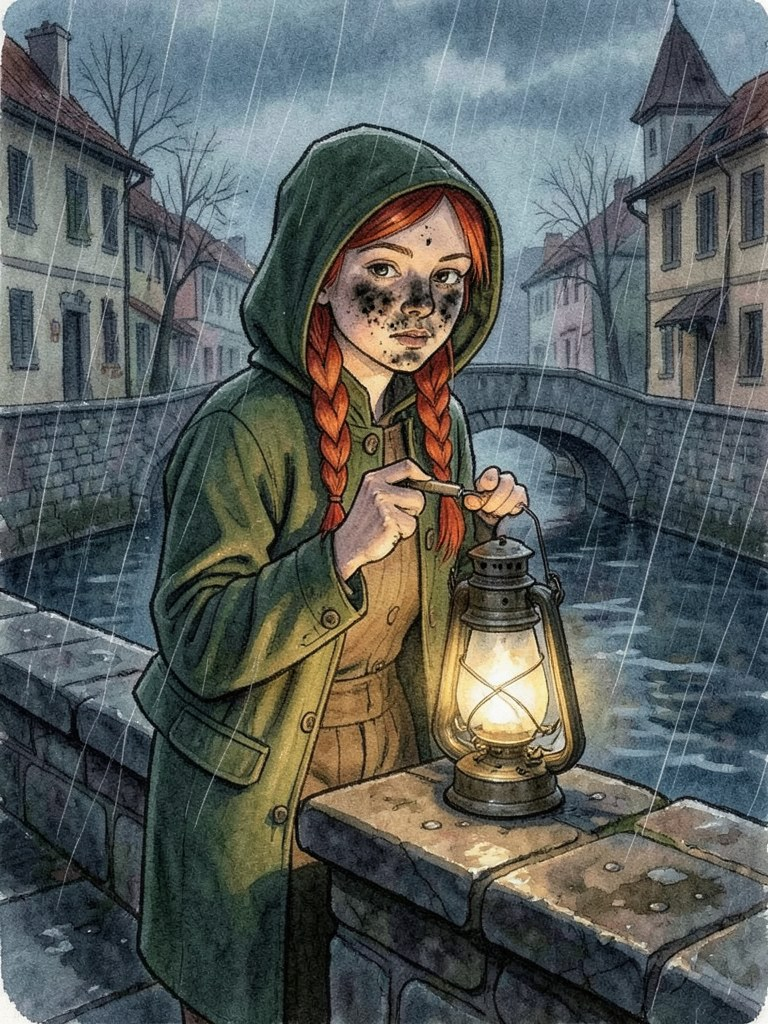
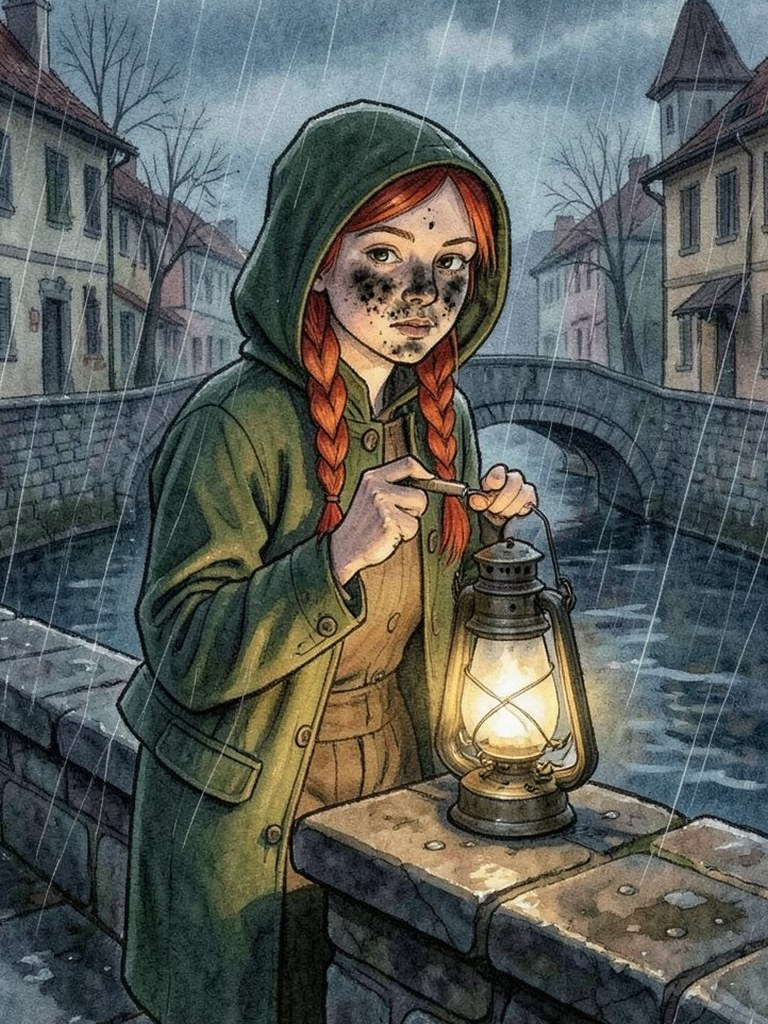
Immagini: si rifilano anche i ritratti; ponte-lanterne senza orli di carta
I ritratti di ponte-lanterne hanno lo sfondo dipinto e lo stesso orlo strappato dei luoghi
(Rosa e Tullio su tutti i lati, Rosa con una firma finta): rifila() ora vale per ogni tipo.
Su un fondo scuro pieno non trova carta e non tocca niente (i tre di prova-f0: 0%).
--rifila-esistenti ricontrolla anche le voci a 0, che per i ritratti voleva dire «mai
controllato». Rifilati dal JPEG: Bice 2,7%, Rosa 5%, Tullio 5%, Vischi 3,9%. Va fatto prima
delle situazioni, che usano i ritratti come riferimento.

diff --git a/strumenti/immagini/genera.py b/strumenti/immagini/genera.py
@@ -131,10 +131,10 @@ def esegui(cartella: Path, da_fare: list[Richiesta], man: Manifest, fp16: bool, 
             e = motore.genera(r.prompt, s, gl, ga, Path(tmp) / f"{r.id}.png", riferimenti=rif)
             with Image.open(e.percorso) as png:
                 img, rifilato = png.convert("RGB"), 0.0
-            # Solo le immagini a tutto schermo: l'orlo bianco sul nero del proiettore abbaglia.
-            # I ritratti hanno il fondo scuro pieno e stanno in un riquadro: non si toccano.
-            if r.tipo in ("luogo", "situazione"):
-                img, rifilato = rifila(img)
+            # Tutti i tipi: l'orlo bianco abbaglia sul proiettore, e i ritratti con lo sfondo dipinto
+            # (ponte-lanterne) hanno lo stesso orlo strappato. Su un fondo scuro pieno rifila() non
+            # trova carta e non tocca niente.
+            img, rifilato = rifila(img)
             salva_jpeg(img, dest / r.file, qualita=QUALITA_JPEG, dimensioni=(r.larghezza, r.altezza))
             kb = (dest / r.file).stat().st_size / 1000
             man.registra({
@@ -162,7 +162,9 @@ def rifila_esistenti(cartella: Path, scelte: list[Richiesta], man: Manifest) -> 
 
     for r in scelte:
         voce = man.voci.get(r.id)
-        if r.alias_di or r.tipo not in ("luogo", "situazione") or not voce or "rifilato_pct" in voce:
+        # Si salta solo ciò che è già stato rifilato davvero: uno 0 può voler dire «mai controllato»
+        # (i ritratti, prima che si rifilassero anche loro), e ricontrollare un'immagine pulita non la tocca.
+        if r.alias_di or not voce or voce.get("rifilato_pct"):
             continue
         percorso = man.cartella / voce["file"]
         if not percorso.exists():
